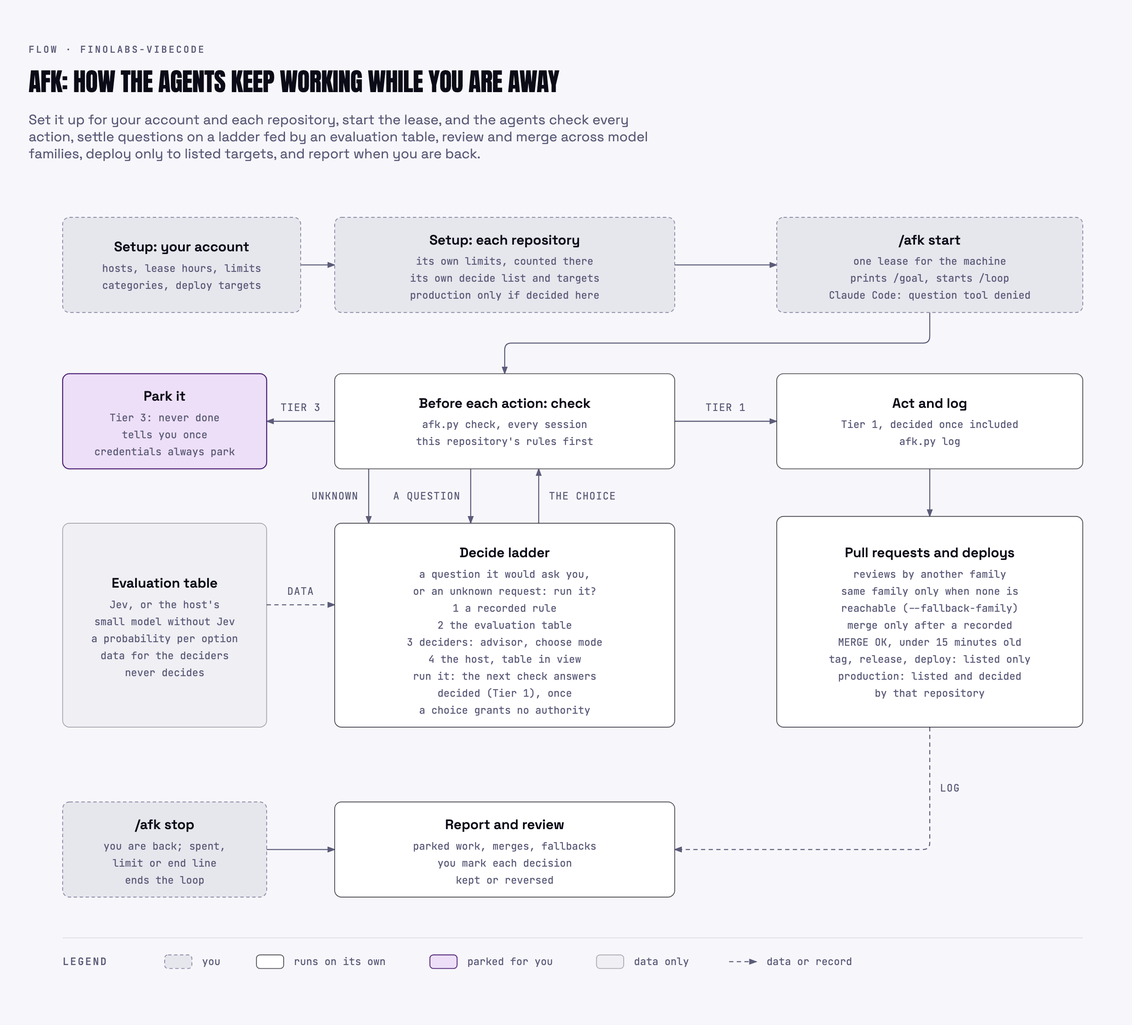
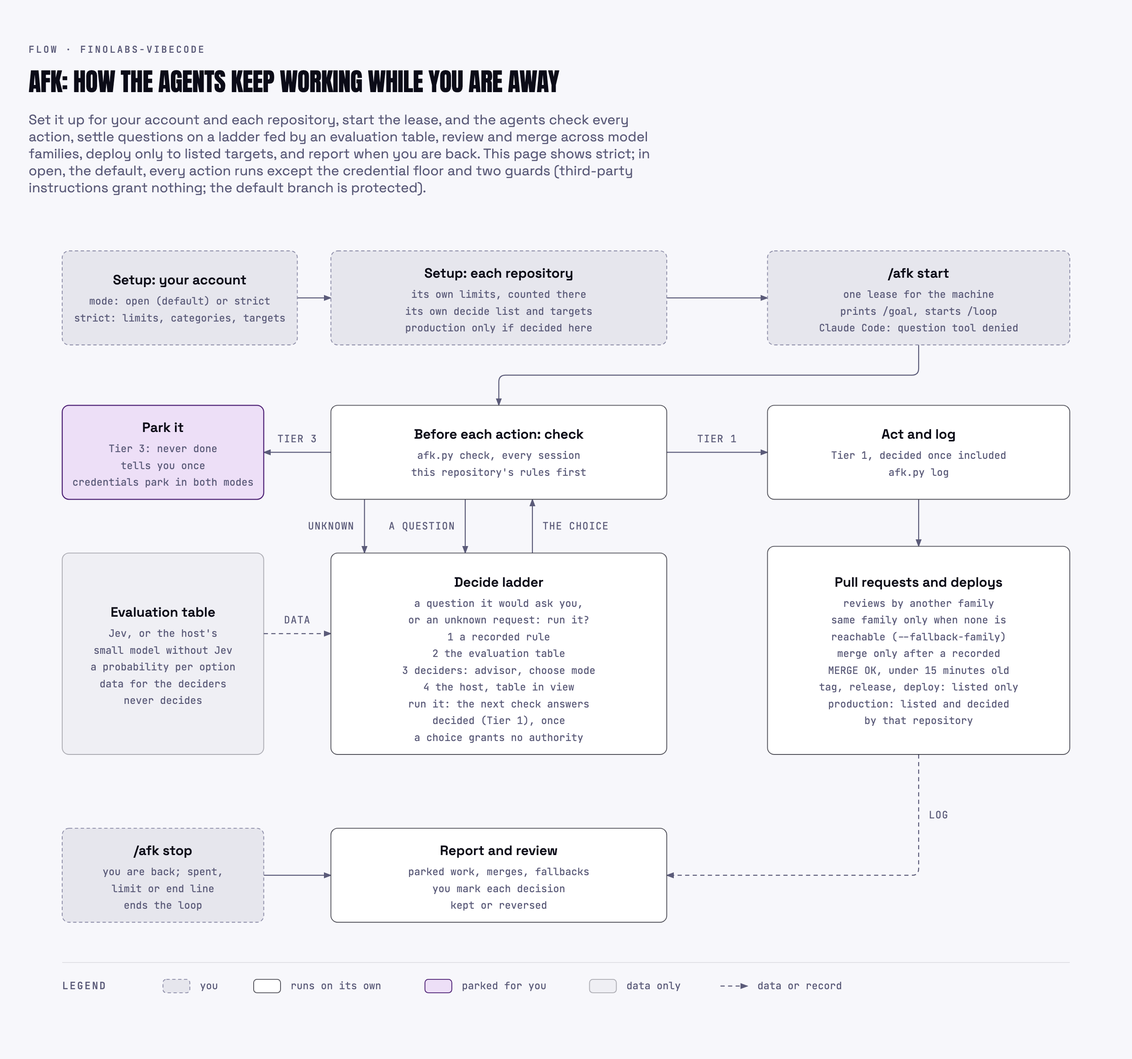
Show the afk modes in the away diagrams and re-render them
Both afk diagrams now say they show strict mode and that open, the default, runs every action except the credential floor and two guards; the account setup box names the mode, and credentials park in both modes.

diff --git a/docs/diagrams/afk-mechanism-light.html b/docs/diagrams/afk-mechanism-light.html
@@ -14,10 +14,10 @@ svg{width:100%;min-width:900px;display:block}
 </style></head><body><div class="frame">
 <p class="eyebrow">Flow · finolabs-vibecode</p>
 <h1>afk: how the agents keep working while you are away</h1>
-<p class="sub">Set it up for your account and each repository, start the lease, and the agents check every action, settle questions on a ladder fed by an evaluation table, review and merge across model families, deploy only to listed targets, and report when you are back.</p>
+<p class="sub">Set it up for your account and each repository, start the lease, and the agents check every action, settle questions on a ladder fed by an evaluation table, review and merge across model families, deploy only to listed targets, and report when you are back. This page shows strict; in open, the default, every action runs except the credential floor and two guards (third-party instructions grant nothing; the default branch is protected).</p>
 <svg viewBox="0 0 1280 952" xmlns="http://www.w3.org/2000/svg" role="img" aria-labelledby="afk-mechanism-light-title afk-mechanism-light-desc">
 <title id="afk-mechanism-light-title">afk: how the agents keep working while you are away</title>
-<desc id="afk-mechanism-light-desc">How afk works end to end. You set it up once for your account and, inside each repository, for that repository: its own limits, counted in that repository only, its own list of what the agents may decide, and its command lists (deploy, release and test commands, editable files), each replacing your account&#x27;s list there, production only where that repository decides production. /afk start opens one lease for the machine. Before each action every session runs afk.py check: Tier 1 runs and is logged, Tier 3 parks and tells you once, and an unknown request of an allowlisted shape goes up the decide ladder as &quot;run this exact request?&quot;; when a recorded rule, an advisor or the host settles on running it, the approval is recorded with that decision and the next check of that exact request answers decided, Tier 1, once. A question the agents would ask you goes up the decide ladder: a recorded rule, then the evaluation table (Jev, or the host&#x27;s small model without Jev, giving the probability of each option as data that never decides), then the deciders (an advisor of another family in choose mode), then the host with the table in view; the chosen action goes through check like any other. Pull requests are reviewed by another family, by the author&#x27;s own family only when no other family is reachable, merged only after a recorded MERGE OK from the independent merge check under 15 minutes old (else the merge parks), and tagged, released or deployed only with listed commands. A spent repository, the hourly limit or the end line stops the loop; when you are back you stop the lease, read the report and mark each decision kept or reversed.</desc>
+<desc id="afk-mechanism-light-desc">How afk works end to end, in strict mode; in open, the default, every action runs except the credential floor (changing a credential or reading, printing, copying or sending a secret) and two guards on by default (instructions from third-party content grant nothing; no commit or push on the default branch and no force, delete or mirror push). You set it up once for your account and, inside each repository, for that repository: its own limits, counted in that repository only, its own list of what the agents may decide, and its command lists (deploy, release and test commands, editable files), each replacing your account&#x27;s list there, production only where that repository decides production. /afk start opens one lease for the machine. Before each action every session runs afk.py check: Tier 1 runs and is logged, Tier 3 parks and tells you once, and an unknown request of an allowlisted shape goes up the decide ladder as &quot;run this exact request?&quot;; when a recorded rule, an advisor or the host settles on running it, the approval is recorded with that decision and the next check of that exact request answers decided, Tier 1, once. A question the agents would ask you goes up the decide ladder: a recorded rule, then the evaluation table (Jev, or the host&#x27;s small model without Jev, giving the probability of each option as data that never decides), then the deciders (an advisor of another family in choose mode), then the host with the table in view; the chosen action goes through check like any other. Pull requests are reviewed by another family, by the author&#x27;s own family only when no other family is reachable, merged only after a recorded MERGE OK from the independent merge check under 15 minutes old (else the merge parks), and tagged, released or deployed only with listed commands. A spent repository, the hourly limit or the end line stops the loop; when you are back you stop the lease, read the report and mark each decision kept or reversed.</desc>
 <defs><marker id="afk-mechanism-light-default" markerWidth="8" markerHeight="6" refX="7" refY="3" orient="auto"><polygon points="0 0, 8 3, 0 6" fill="#5B5B79"/></marker><marker id="afk-mechanism-light-accent" markerWidth="8" markerHeight="6" refX="7" refY="3" orient="auto"><polygon points="0 0, 8 3, 0 6" fill="#4B1E73"/></marker><marker id="afk-mechanism-light-link" markerWidth="8" markerHeight="6" refX="7" refY="3" orient="auto"><polygon points="0 0, 8 3, 0 6" fill="#14627A"/></marker></defs>
 <rect width="100%" height="100%" fill="#F7F7FB"/>
 <path d="M320,96 H360" fill="none" stroke="#5B5B79" stroke-width="1.2" marker-end="url(#afk-mechanism-light-default)"/>
@@ -43,8 +43,8 @@ svg{width:100%;min-width:900px;display:block}
 <rect x="40" y="40" width="280" height="112" rx="8" fill="#F7F7FB"/>
 <rect x="40" y="40" width="280" height="112" rx="8" fill="rgba(91,91,121,0.10)" stroke="#8B8BA6" stroke-width="1" stroke-dasharray="4,3"/>
 <text x="180" y="80" fill="#0B0B17" font-size="16" font-weight="600" font-family="'Space Grotesk', system-ui, sans-serif" text-anchor="middle">Setup: your account</text>
-<text x="180" y="104" fill="#5B5B79" font-size="12" font-family="'JetBrains Mono', ui-monospace, monospace" text-anchor="middle">hosts, lease hours, limits</text>
-<text x="180" y="124" fill="#5B5B79" font-size="12" font-family="'JetBrains Mono', ui-monospace, monospace" text-anchor="middle">categories, deploy targets</text>
+<text x="180" y="104" fill="#5B5B79" font-size="12" font-family="'JetBrains Mono', ui-monospace, monospace" text-anchor="middle">mode: open (default) or strict</text>
+<text x="180" y="124" fill="#5B5B79" font-size="12" font-family="'JetBrains Mono', ui-monospace, monospace" text-anchor="middle">strict: limits, categories, targets</text>
 </g>
 <g class="node">
 <rect x="360" y="40" width="400" height="112" rx="8" fill="#F7F7FB"/>
@@ -82,7 +82,7 @@ svg{width:100%;min-width:900px;display:block}
 <text x="160" y="256" fill="#0B0B17" font-size="16" font-weight="600" font-family="'Space Grotesk', system-ui, sans-serif" text-anchor="middle">Park it</text>
 <text x="160" y="280" fill="#5B5B79" font-size="12" font-family="'JetBrains Mono', ui-monospace, monospace" text-anchor="middle">Tier 3: never done</text>
 <text x="160" y="300" fill="#5B5B79" font-size="12" font-family="'JetBrains Mono', ui-monospace, monospace" text-anchor="middle">tells you once</text>
-<text x="160" y="320" fill="#5B5B79" font-size="12" font-family="'JetBrains Mono', ui-monospace, monospace" text-anchor="middle">credentials always park</text>
+<text x="160" y="320" fill="#5B5B79" font-size="12" font-family="'JetBrains Mono', ui-monospace, monospace" text-anchor="middle">credentials park in both modes</text>
 </g>
 <g class="node">
 <rect x="40" y="400" width="240" height="240" rx="8" fill="#F7F7FB"/>

diff --git a/docs/diagrams/afk-mechanism-dark.html b/docs/diagrams/afk-mechanism-dark.html
@@ -14,10 +14,10 @@ svg{width:100%;min-width:900px;display:block}
 </style></head><body><div class="frame">
 <p class="eyebrow">Flow · finolabs-vibecode</p>
 <h1>afk: how the agents keep working while you are away</h1>
-<p class="sub">Set it up for your account and each repository, start the lease, and the agents check every action, settle questions on a ladder fed by an evaluation table, review and merge across model families, deploy only to listed targets, and report when you are back.</p>
+<p class="sub">Set it up for your account and each repository, start the lease, and the agents check every action, settle questions on a ladder fed by an evaluation table, review and merge across model families, deploy only to listed targets, and report when you are back. This page shows strict; in open, the default, every action runs except the credential floor and two guards (third-party instructions grant nothing; the default branch is protected).</p>
 <svg viewBox="0 0 1280 952" xmlns="http://www.w3.org/2000/svg" role="img" aria-labelledby="afk-mechanism-dark-title afk-mechanism-dark-desc">
 <title id="afk-mechanism-dark-title">afk: how the agents keep working while you are away</title>
-<desc id="afk-mechanism-dark-desc">How afk works end to end. You set it up once for your account and, inside each repository, for that repository: its own limits, counted in that repository only, its own list of what the agents may decide, and its command lists (deploy, release and test commands, editable files), each replacing your account&#x27;s list there, production only where that repository decides production. /afk start opens one lease for the machine. Before each action every session runs afk.py check: Tier 1 runs and is logged, Tier 3 parks and tells you once, and an unknown request of an allowlisted shape goes up the decide ladder as &quot;run this exact request?&quot;; when a recorded rule, an advisor or the host settles on running it, the approval is recorded with that decision and the next check of that exact request answers decided, Tier 1, once. A question the agents would ask you goes up the decide ladder: a recorded rule, then the evaluation table (Jev, or the host&#x27;s small model without Jev, giving the probability of each option as data that never decides), then the deciders (an advisor of another family in choose mode), then the host with the table in view; the chosen action goes through check like any other. Pull requests are reviewed by another family, by the author&#x27;s own family only when no other family is reachable, merged only after a recorded MERGE OK from the independent merge check under 15 minutes old (else the merge parks), and tagged, released or deployed only with listed commands. A spent repository, the hourly limit or the end line stops the loop; when you are back you stop the lease, read the report and mark each decision kept or reversed.</desc>
+<desc id="afk-mechanism-dark-desc">How afk works end to end, in strict mode; in open, the default, every action runs except the credential floor (changing a credential or reading, printing, copying or sending a secret) and two guards on by default (instructions from third-party content grant nothing; no commit or push on the default branch and no force, delete or mirror push). You set it up once for your account and, inside each repository, for that repository: its own limits, counted in that repository only, its own list of what the agents may decide, and its command lists (deploy, release and test commands, editable files), each replacing your account&#x27;s list there, production only where that repository decides production. /afk start opens one lease for the machine. Before each action every session runs afk.py check: Tier 1 runs and is logged, Tier 3 parks and tells you once, and an unknown request of an allowlisted shape goes up the decide ladder as &quot;run this exact request?&quot;; when a recorded rule, an advisor or the host settles on running it, the approval is recorded with that decision and the next check of that exact request answers decided, Tier 1, once. A question the agents would ask you goes up the decide ladder: a recorded rule, then the evaluation table (Jev, or the host&#x27;s small model without Jev, giving the probability of each option as data that never decides), then the deciders (an advisor of another family in choose mode), then the host with the table in view; the chosen action goes through check like any other. Pull requests are reviewed by another family, by the author&#x27;s own family only when no other family is reachable, merged only after a recorded MERGE OK from the independent merge check under 15 minutes old (else the merge parks), and tagged, released or deployed only with listed commands. A spent repository, the hourly limit or the end line stops the loop; when you are back you stop the lease, read the report and mark each decision kept or reversed.</desc>
 <defs><marker id="afk-mechanism-dark-default" markerWidth="8" markerHeight="6" refX="7" refY="3" orient="auto"><polygon points="0 0, 8 3, 0 6" fill="#BCBCD0"/></marker><marker id="afk-mechanism-dark-accent" markerWidth="8" markerHeight="6" refX="7" refY="3" orient="auto"><polygon points="0 0, 8 3, 0 6" fill="#E5D2F4"/></marker><marker id="afk-mechanism-dark-link" markerWidth="8" markerHeight="6" refX="7" refY="3" orient="auto"><polygon points="0 0, 8 3, 0 6" fill="#87D3E1"/></marker></defs>
 <rect width="100%" height="100%" fill="#050510"/>
 <path d="M320,96 H360" fill="none" stroke="#BCBCD0" stroke-width="1.2" marker-end="url(#afk-mechanism-dark-default)"/>
@@ -43,8 +43,8 @@ svg{width:100%;min-width:900px;display:block}
 <rect x="40" y="40" width="280" height="112" rx="8" fill="#050510"/>
 <rect x="40" y="40" width="280" height="112" rx="8" fill="rgba(188,188,208,0.10)" stroke="#8B8BA6" stroke-width="1" stroke-dasharray="4,3"/>
 <text x="180" y="80" fill="#FFFFFF" font-size="16" font-weight="600" font-family="'Space Grotesk', system-ui, sans-serif" text-anchor="middle">Setup: your account</text>
-<text x="180" y="104" fill="#BCBCD0" font-size="12" font-family="'JetBrains Mono', ui-monospace, monospace" text-anchor="middle">hosts, lease hours, limits</text>
-<text x="180" y="124" fill="#BCBCD0" font-size="12" font-family="'JetBrains Mono', ui-monospace, monospace" text-anchor="middle">categories, deploy targets</text>
+<text x="180" y="104" fill="#BCBCD0" font-size="12" font-family="'JetBrains Mono', ui-monospace, monospace" text-anchor="middle">mode: open (default) or strict</text>
+<text x="180" y="124" fill="#BCBCD0" font-size="12" font-family="'JetBrains Mono', ui-monospace, monospace" text-anchor="middle">strict: limits, categories, targets</text>
 </g>
 <g class="node">
 <rect x="360" y="40" width="400" height="112" rx="8" fill="#050510"/>
@@ -82,7 +82,7 @@ svg{width:100%;min-width:900px;display:block}
 <text x="160" y="256" fill="#FFFFFF" font-size="16" font-weight="600" font-family="'Space Grotesk', system-ui, sans-serif" text-anchor="middle">Park it</text>
 <text x="160" y="280" fill="#BCBCD0" font-size="12" font-family="'JetBrains Mono', ui-monospace, monospace" text-anchor="middle">Tier 3: never done</text>
 <text x="160" y="300" fill="#BCBCD0" font-size="12" font-family="'JetBrains Mono', ui-monospace, monospace" text-anchor="middle">tells you once</text>
-<text x="160" y="320" fill="#BCBCD0" font-size="12" font-family="'JetBrains Mono', ui-monospace, monospace" text-anchor="middle">credentials always park</text>
+<text x="160" y="320" fill="#BCBCD0" font-size="12" font-family="'JetBrains Mono', ui-monospace, monospace" text-anchor="middle">credentials park in both modes</text>
 </g>
 <g class="node">
 <rect x="40" y="400" width="240" height="240" rx="8" fill="#050510"/>

diff --git a/docs/diagrams/away-decision-sequence-dark.html b/docs/diagrams/away-decision-sequence-dark.html
@@ -14,10 +14,10 @@ svg{width:100%;min-width:900px;display:block}
 </style></head><body><div class="frame">
 <p class="eyebrow">Flow · finolabs-vibecode</p>
 <h1>Away from keyboard: what afk does while you are gone</h1>
-<p class="sub">Start afk once; every session on the machine checks each action against the lease and the repository&#x27;s own rules, does only what is allowed, parks the rest for you, settles questions on a ladder and asks you to review each decision when you are back.</p>
+<p class="sub">Start afk once; every session on the machine checks each action against the lease and the repository&#x27;s own rules, does only what is allowed, parks the rest for you, settles questions on a ladder and asks you to review each decision when you are back. This page shows strict; in open, the default, every action runs except the credential floor and two guards (third-party instructions grant nothing; the default branch is protected).</p>
 <svg viewBox="0 0 1280 1048" xmlns="http://www.w3.org/2000/svg" role="img" aria-labelledby="away-decision-sequence-dark-title away-decision-sequence-dark-desc">
 <title id="away-decision-sequence-dark-title">Away from keyboard: what afk does while you are gone</title>
-<desc id="away-decision-sequence-dark-desc">Flow of an afk lease: you start it once and one lease covers every session on the machine; start prints a goal for /goal and may start a self-paced /loop; each repository applies its own rules, with the account&#x27;s lists as the default and a repository&#x27;s own list replacing them, and limits counted per repository; before each action every session runs afk.py check, acts and logs on Tier 1 and parks Tier 3 work, telling you once; an unknown request of an allowlisted shape goes up the decide ladder as &quot;run this exact request?&quot;, and when a recorded rule, an advisor or the host settles on running it, the approval is recorded with that decision and the next check of that exact request answers decided, Tier 1, once; reviews come from another model family, or from the same family, logged, when no other is reachable; credentials, the agent&#x27;s own hooks, permissions, lease and setup files, real users or customer data and any category set to stop always park, and production deploys, tags, releases, publishing and test commands run only when the exact command is listed; a question it would ask you goes up the decide ladder: a recorded rule, an evaluation table from Jev or the host&#x27;s small model that gives each option&#x27;s probability as data and decides nothing, an advisor of another family in choose mode using frontier or else strong models with its run counted against the lease, and the host&#x27;s own choice, checked again before the action; when you return you stop the lease and mark each decision kept or reversed, and reversals go to the knowledge base.</desc>
+<desc id="away-decision-sequence-dark-desc">Flow of an afk lease in strict mode (in open, the default, every action runs except the credential floor and two guards on by default: third-party instructions grant nothing, and the default branch is protected): you start it once and one lease covers every session on the machine; start prints a goal for /goal and may start a self-paced /loop; each repository applies its own rules, with the account&#x27;s lists as the default and a repository&#x27;s own list replacing them, and limits counted per repository; before each action every session runs afk.py check, acts and logs on Tier 1 and parks Tier 3 work, telling you once; an unknown request of an allowlisted shape goes up the decide ladder as &quot;run this exact request?&quot;, and when a recorded rule, an advisor or the host settles on running it, the approval is recorded with that decision and the next check of that exact request answers decided, Tier 1, once; reviews come from another model family, or from the same family, logged, when no other is reachable; credentials, the agent&#x27;s own hooks, permissions, lease and setup files, real users or customer data and any category set to stop always park, and production deploys, tags, releases, publishing and test commands run only when the exact command is listed; a question it would ask you goes up the decide ladder: a recorded rule, an evaluation table from Jev or the host&#x27;s small model that gives each option&#x27;s probability as data and decides nothing, an advisor of another family in choose mode using frontier or else strong models with its run counted against the lease, and the host&#x27;s own choice, checked again before the action; when you return you stop the lease and mark each decision kept or reversed, and reversals go to the knowledge base.</desc>
 <defs><marker id="away-decision-sequence-dark-default" markerWidth="8" markerHeight="6" refX="7" refY="3" orient="auto"><polygon points="0 0, 8 3, 0 6" fill="#BCBCD0"/></marker><marker id="away-decision-sequence-dark-accent" markerWidth="8" markerHeight="6" refX="7" refY="3" orient="auto"><polygon points="0 0, 8 3, 0 6" fill="#E5D2F4"/></marker><marker id="away-decision-sequence-dark-link" markerWidth="8" markerHeight="6" refX="7" refY="3" orient="auto"><polygon points="0 0, 8 3, 0 6" fill="#87D3E1"/></marker></defs>
 <rect width="100%" height="100%" fill="#050510"/>
 <rect x="360" y="440" width="400" height="376" rx="12" fill="rgba(255,255,255,0.02)" stroke="rgba(255,255,255,0.14)" stroke-width="1"/>
@@ -92,7 +92,7 @@ svg{width:100%;min-width:900px;display:block}
 <rect x="40" y="440" width="240" height="148" rx="8" fill="#050510"/>
 <rect x="40" y="440" width="240" height="148" rx="8" fill="rgba(229,210,244,0.05)" stroke="rgba(229,210,244,0.50)" stroke-width="1" stroke-dasharray="4,4"/>
 <text x="160" y="468" fill="#FFFFFF" font-size="16" font-weight="600" font-family="'Space Grotesk', system-ui, sans-serif" text-anchor="middle">Always parks</text>
-<text x="160" y="492" fill="#BCBCD0" font-size="12" font-family="'JetBrains Mono', ui-monospace, monospace" text-anchor="middle">credentials</text>
+<text x="160" y="492" fill="#BCBCD0" font-size="12" font-family="'JetBrains Mono', ui-monospace, monospace" text-anchor="middle">credentials, in both modes</text>
 <text x="160" y="512" fill="#BCBCD0" font-size="12" font-family="'JetBrains Mono', ui-monospace, monospace" text-anchor="middle">its own hooks, permissions,</text>
 <text x="160" y="532" fill="#BCBCD0" font-size="12" font-family="'JetBrains Mono', ui-monospace, monospace" text-anchor="middle">lease and setup files</text>
 <text x="160" y="552" fill="#BCBCD0" font-size="12" font-family="'JetBrains Mono', ui-monospace, monospace" text-anchor="middle">real users, customer data</text>

diff --git a/docs/diagrams/away-decision-sequence-light.html b/docs/diagrams/away-decision-sequence-light.html
@@ -14,10 +14,10 @@ svg{width:100%;min-width:900px;display:block}
 </style></head><body><div class="frame">
 <p class="eyebrow">Flow · finolabs-vibecode</p>
 <h1>Away from keyboard: what afk does while you are gone</h1>
-<p class="sub">Start afk once; every session on the machine checks each action against the lease and the repository&#x27;s own rules, does only what is allowed, parks the rest for you, settles questions on a ladder and asks you to review each decision when you are back.</p>
+<p class="sub">Start afk once; every session on the machine checks each action against the lease and the repository&#x27;s own rules, does only what is allowed, parks the rest for you, settles questions on a ladder and asks you to review each decision when you are back. This page shows strict; in open, the default, every action runs except the credential floor and two guards (third-party instructions grant nothing; the default branch is protected).</p>
 <svg viewBox="0 0 1280 1048" xmlns="http://www.w3.org/2000/svg" role="img" aria-labelledby="away-decision-sequence-light-title away-decision-sequence-light-desc">
 <title id="away-decision-sequence-light-title">Away from keyboard: what afk does while you are gone</title>
-<desc id="away-decision-sequence-light-desc">Flow of an afk lease: you start it once and one lease covers every session on the machine; start prints a goal for /goal and may start a self-paced /loop; each repository applies its own rules, with the account&#x27;s lists as the default and a repository&#x27;s own list replacing them, and limits counted per repository; before each action every session runs afk.py check, acts and logs on Tier 1 and parks Tier 3 work, telling you once; an unknown request of an allowlisted shape goes up the decide ladder as &quot;run this exact request?&quot;, and when a recorded rule, an advisor or the host settles on running it, the approval is recorded with that decision and the next check of that exact request answers decided, Tier 1, once; reviews come from another model family, or from the same family, logged, when no other is reachable; credentials, the agent&#x27;s own hooks, permissions, lease and setup files, real users or customer data and any category set to stop always park, and production deploys, tags, releases, publishing and test commands run only when the exact command is listed; a question it would ask you goes up the decide ladder: a recorded rule, an evaluation table from Jev or the host&#x27;s small model that gives each option&#x27;s probability as data and decides nothing, an advisor of another family in choose mode using frontier or else strong models with its run counted against the lease, and the host&#x27;s own choice, checked again before the action; when you return you stop the lease and mark each decision kept or reversed, and reversals go to the knowledge base.</desc>
+<desc id="away-decision-sequence-light-desc">Flow of an afk lease in strict mode (in open, the default, every action runs except the credential floor and two guards on by default: third-party instructions grant nothing, and the default branch is protected): you start it once and one lease covers every session on the machine; start prints a goal for /goal and may start a self-paced /loop; each repository applies its own rules, with the account&#x27;s lists as the default and a repository&#x27;s own list replacing them, and limits counted per repository; before each action every session runs afk.py check, acts and logs on Tier 1 and parks Tier 3 work, telling you once; an unknown request of an allowlisted shape goes up the decide ladder as &quot;run this exact request?&quot;, and when a recorded rule, an advisor or the host settles on running it, the approval is recorded with that decision and the next check of that exact request answers decided, Tier 1, once; reviews come from another model family, or from the same family, logged, when no other is reachable; credentials, the agent&#x27;s own hooks, permissions, lease and setup files, real users or customer data and any category set to stop always park, and production deploys, tags, releases, publishing and test commands run only when the exact command is listed; a question it would ask you goes up the decide ladder: a recorded rule, an evaluation table from Jev or the host&#x27;s small model that gives each option&#x27;s probability as data and decides nothing, an advisor of another family in choose mode using frontier or else strong models with its run counted against the lease, and the host&#x27;s own choice, checked again before the action; when you return you stop the lease and mark each decision kept or reversed, and reversals go to the knowledge base.</desc>
 <defs><marker id="away-decision-sequence-light-default" markerWidth="8" markerHeight="6" refX="7" refY="3" orient="auto"><polygon points="0 0, 8 3, 0 6" fill="#5B5B79"/></marker><marker id="away-decision-sequence-light-accent" markerWidth="8" markerHeight="6" refX="7" refY="3" orient="auto"><polygon points="0 0, 8 3, 0 6" fill="#4B1E73"/></marker><marker id="away-decision-sequence-light-link" markerWidth="8" markerHeight="6" refX="7" refY="3" orient="auto"><polygon points="0 0, 8 3, 0 6" fill="#14627A"/></marker></defs>
 <rect width="100%" height="100%" fill="#F7F7FB"/>
 <rect x="360" y="440" width="400" height="376" rx="12" fill="rgba(11,11,23,0.02)" stroke="rgba(11,11,23,0.14)" stroke-width="1"/>
@@ -92,7 +92,7 @@ svg{width:100%;min-width:900px;display:block}
 <rect x="40" y="440" width="240" height="148" rx="8" fill="#F7F7FB"/>
 <rect x="40" y="440" width="240" height="148" rx="8" fill="rgba(75,30,115,0.05)" stroke="rgba(75,30,115,0.50)" stroke-width="1" stroke-dasharray="4,4"/>
 <text x="160" y="468" fill="#0B0B17" font-size="16" font-weight="600" font-family="'Space Grotesk', system-ui, sans-serif" text-anchor="middle">Always parks</text>
-<text x="160" y="492" fill="#5B5B79" font-size="12" font-family="'JetBrains Mono', ui-monospace, monospace" text-anchor="middle">credentials</text>
+<text x="160" y="492" fill="#5B5B79" font-size="12" font-family="'JetBrains Mono', ui-monospace, monospace" text-anchor="middle">credentials, in both modes</text>
 <text x="160" y="512" fill="#5B5B79" font-size="12" font-family="'JetBrains Mono', ui-monospace, monospace" text-anchor="middle">its own hooks, permissions,</text>
 <text x="160" y="532" fill="#5B5B79" font-size="12" font-family="'JetBrains Mono', ui-monospace, monospace" text-anchor="middle">lease and setup files</text>
 <text x="160" y="552" fill="#5B5B79" font-size="12" font-family="'JetBrains Mono', ui-monospace, monospace" text-anchor="middle">real users, customer data</text>
